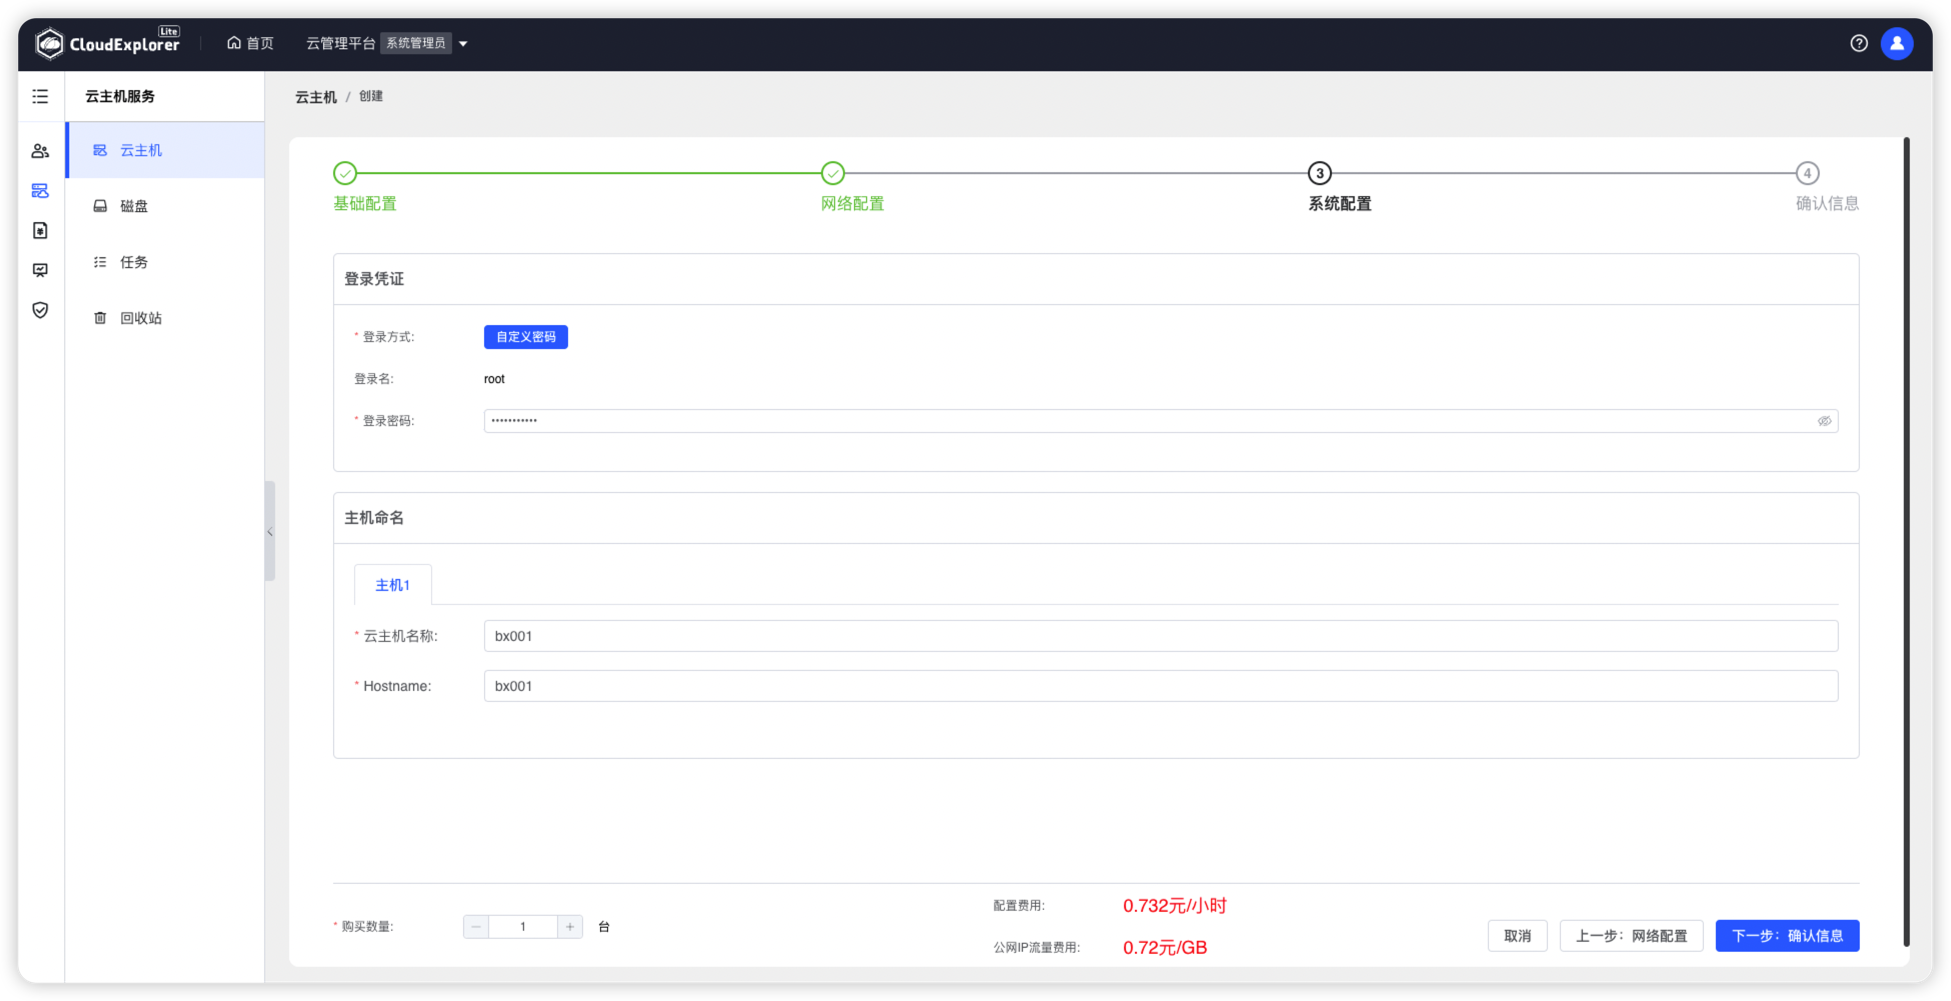
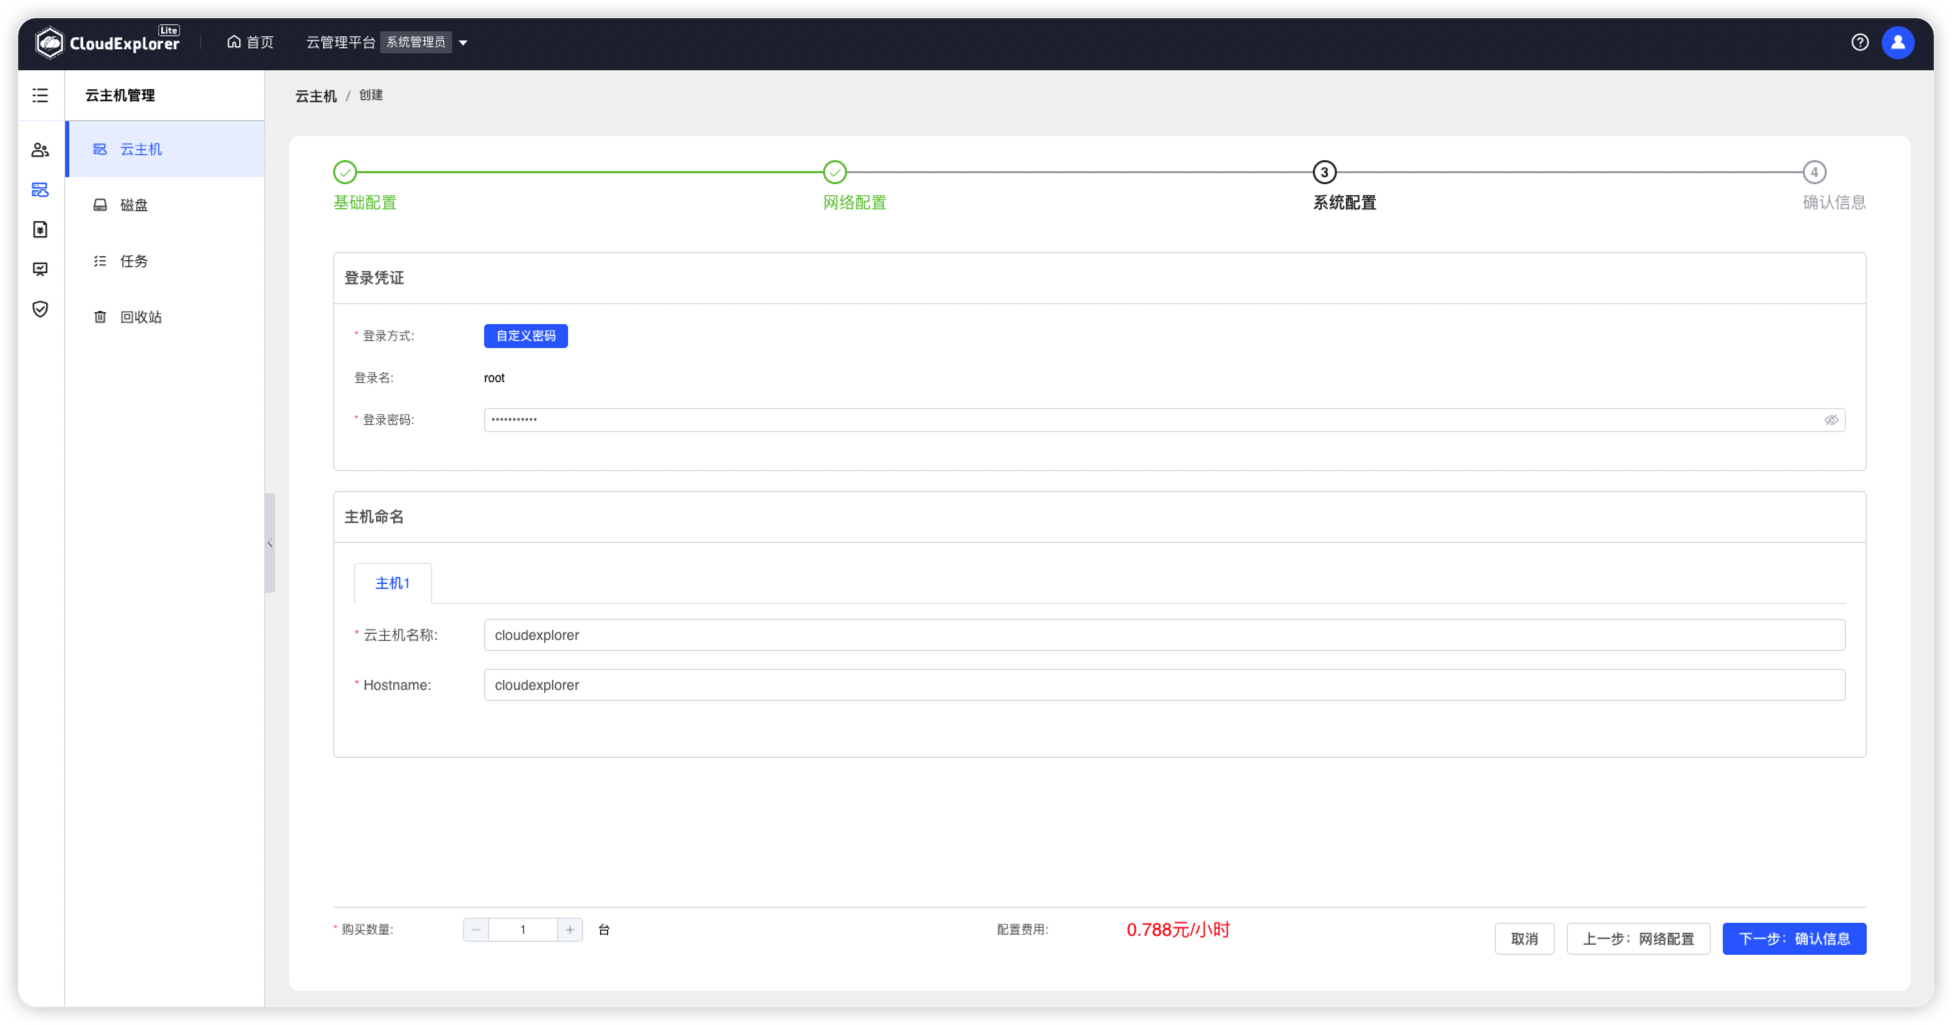
更新产品介绍、云主机管理截图

diff --git a/docs/css/extra.css b/docs/css/extra.css
@@ -131,7 +131,7 @@
   border-left-width: 4px;
 }
 .md-typeset .admonition.abstract, .md-typeset details.abstract{
-  border-left-color: rgb(51,112,255);
+  border-left-color: #3370FF;
 }
 .md-typeset p, .md-typeset ul, .md-typeset ol, .md-typeset dl, .md-typeset blockquote {
   display: flow-root;

diff --git a/docs/quick_start.md b/docs/quick_start.md
@@ -44,17 +44,17 @@
 
 ![管理中心](./img/quick_start/管理中心.png){ width="1235px" }
 
-- 云主机服务 
+- 云主机管理 
 
 !!! Abstract ""
-    用户可在此模块对云主机创建、启停机、配置变更等，云磁盘的创建、挂载/卸载、扩容等全生命周期的运维管理操作；管理员除运维管理操作外还可以在此模块进行资源授权，具体可参考本文档的功能手册【云主机服务】。
+    提供统一的云主机生命周期管理操作和监控界面，基于既有的用户管理体系，用户可创建、可操作的资源都具有租户隔离属性。具体可参考本文档的功能手册【云主机管理】。
 
-![云主机服务](img/quick_start/云主机服务.png){ width="1235px" }
+![云主机管理](img/quick_start/云主机管理.png){ width="1235px" }
 
-- 云账单服务  
+- 云账单  
 
 !!! Abstract ""
-    用户可在此模块查看 IT 资源投入的成本费用、管理员可在此模块设置费用分摊、自定义多维度费用分析报表，具体可参考本文档的功能手册【云账单】。
+    提供统一的费用管理、费用分摊、自定义多维度账单功能，可作为企业的云资源成本分析中心，能够帮助企业用户有效降低云上资源的成本管理难度。具体可参考本文档的功能手册【云账单】。
 
 ![云账单](img/quick_start/账单总览.png){ width="1235px" }
 
@@ -91,12 +91,12 @@
 
 ![向导-输入云账号凭证](img/quick_start/云账号向导-输入云账号凭证.png)
 !!! Abstract ""
-    非首次登录可打开【管理中心】——【云账号】菜单，创建一个阿里云的云账号，名称为“阿里云-产品”。
+    非首次登录可打开【管理中心】-【云账号】菜单，创建一个阿里云的云账号，名称为“阿里云-产品”。
 
 ![云账号列表](img/quick_start/添加云账号.png){ width="1235px" }
 
 !!! Abstract ""
-    云平台选择“阿里云”(若是其他云平台的可选择对应的云平台)，当前以“阿里云”为例。
+    云平台选择“阿里云”(若是其他云平台的可选择对应的云平台)  ，当前以“阿里云”为例。
 
 ![添加云账号](img/quick_start/选择云平台.png)
 
@@ -119,7 +119,7 @@
 ### 3.3 管理云主机
 
 !!! Abstract ""
-    【云主机服务】模块提供了云主机的创建、启/停机、回收、配置变更、扩容、授权等。同时基于用户管理体系，用户可创建、可操作的资源都具备隔离性。在多云环境下提供统一的操作界面，为用户带来极大便利。
+    【云主机管理】模块提供了云主机的创建、启/停机、回收、配置变更、扩容、授权等。同时基于用户管理体系，用户可创建、可操作的资源都具备隔离性。在多云环境下提供统一的操作界面，为用户带来极大便利。
 
 - 创建阿里云云主机
 
@@ -230,7 +230,7 @@
 ![添加分账规则](img/quick_start/添加分账规则.png)
 
 !!! Abstract ""
-    分账规则设置保存后，在已分账资源列表会展示分摊过来的资源。
+    分账规则设置保存后，需要延迟24小时可在已分账资源列表展示分摊过来的资源。
 
 ![已分账资源](img/quick_start/已分账资源.png)
 

diff --git a/docs/update_log.md b/docs/update_log.md
@@ -3,7 +3,7 @@
 ## 1 版本说明
 
 !!! Abstract ""
-    **版本号说明：** 像其它优秀开源项目一样，CloudExplorer-Lite 将保持每月发布一个新的功能版本，功能版本中如遇较为紧急或严重的 Bug，将及时推出 Bug 修复的小版本。
+    **版本号说明：** 像其它优秀开源项目一样，CloudExplorer-Lite 将保持每月发布一个新的功能版本，功能版本中如遇较为紧急或严重的 Bug，将及时推出 Bug 修复的小版本。  
     **CloudExplorer-Lite 版本号命名规则为：** v 大版本.功能版本. Bug 修复版本，示例如下：
 
     -  v1.0.1 是 v1.0.0 之后的 Bug 修复版本
@@ -14,8 +14,8 @@
 ### v1.0.0
 2023 年 4 月 15 日
 !!! Abstract "新增功能 :star2:"
-    -  **管理中心:**  云管平台的统一管理中心，包括企业组织架构、用户权限管理，云账号管理、模块管理、日志管理、系统设置等功能。
-    -  **云主机管理:**  提供统一的云主机的生命周期管理操作界面；基于用户管理体系，用户可创建、可操作的资源都具备隔离性。
-    -  **云账单:**  提供统一的费用管理、费用分摊、自定义多维度账单，作为企业的云资源成本分析中心，降低云上资源成本管理难度。
-    -  **运营分析:**  对云资源从分布、容量、使用情况进行多维度分析，提供资源优化建议。
-    -  **安全合规:**  支持一键扫描多个云平台的多种云资源，可灵活定义规则。 
+    -  **管理中心:**  CloudExplorer-Lite的统一管理中心，提供了强大的多租户体系和模块化能力，可以满足企业的定制化需求。
+    -  **云主机管理:**  CloudExplorer-Lite提供统一的云主机的生命周期管理操作界面；基于用户管理体系，用户可创建、可操作的资源都具备隔离性。
+    -  **云账单:**  CloudExplorer-Lite提供统一的费用管理、费用分摊、自定义多维度账单功能，可以作为企业的云资源成本分析中心，帮助企业用户有效降低云上资源的成本管理难度。
+    -  **运营分析:**  CloudExplorer-Lite能够对企业现有的云资源从分布、容量、使用情况等多个维度进行分析，并提供资源优化建议。
+    -  **安全合规:**  CloudExplorer-Lite支持一键扫描多个云平台的多种云资源，可灵活定义规则。 

diff --git a/docs/index.md b/docs/index.md
@@ -2,17 +2,16 @@
 
 !!! Abstract ""
     CloudExplorer-Lite 是开源的轻量版多云管理平台；   
-    CloudExplorer-Lite 可以轻松对接纳管市场上主流的公有云和私有云，提供开箱即用的云主机管理、云账单、运营分析和安全合规等基本功能，同时提供强大的扩展能力来满足企业的个性化和定制化需求。 
+    CloudExplorer-Lite 脱胎于飞致云创始软件产品 CloudExplorer 多云管理平台，支持对接纳管主流的公有云和私有云基础设施，提供开箱即用的云主机管理、云账单、运营分析和安全合规等基本功能，同时还可提供强大的扩展能力以满足企业的定制化需求。 
 ![主页](./img/index/主页.png){ width="1235px" }
 
 
 ## 1 产品优势
 
 !!! Abstract ""
-    - 多云对接：CloudExplorer-Lite 支持对接纳管市场上主流的公有云和私有云，包括阿里云、华为云、腾讯云、VMware、OpenStack等；
+    - 多云对接：CloudExplorer-Lite 支持对接纳管市场上主流的公有云和私有云，包括阿里云、华为云、腾讯云、VMware、OpenStack 等；
     - 开箱即用：作为一款轻量版云管平台，CloudExplorer-Lite 提供诸多开箱即用的功能满足大部分企业的基本需求；
-    - 扩展能力：云管平台是解决方案类型软件。为了满足企业的个性化和定制化需求，CloudExplorer-Lite 在架构上提供强大的多租户体系和模块化能力。
-![产品优势](./img/index/产品优势.png){ width="600px" }  
+    - 扩展能力：CloudExplorer-Lite 提供了强大的多租户体系和模块化能力，可以满足企业的定制化需求。
 
 ## 2 多云对接能力
 

diff --git a/docs/contact.md b/docs/contact.md
@@ -1,6 +1,6 @@
 ## 1 微信公众号
 
-![wechat-official](img/wechat-official.jpg)
+
 
 ## 2 微信群
 
@@ -23,7 +23,7 @@
 ## 4 联系方式
 
 !!! Abstract ""
-    - 官网：https://fit2cloud.com/cloudexplorer-lite
+    - 官网：https://www.fit2cloud.com/cloudexplorer-lite/index.html
     - 邮箱：support@fit2cloud.com
     - 电话：400-052-0755
 
